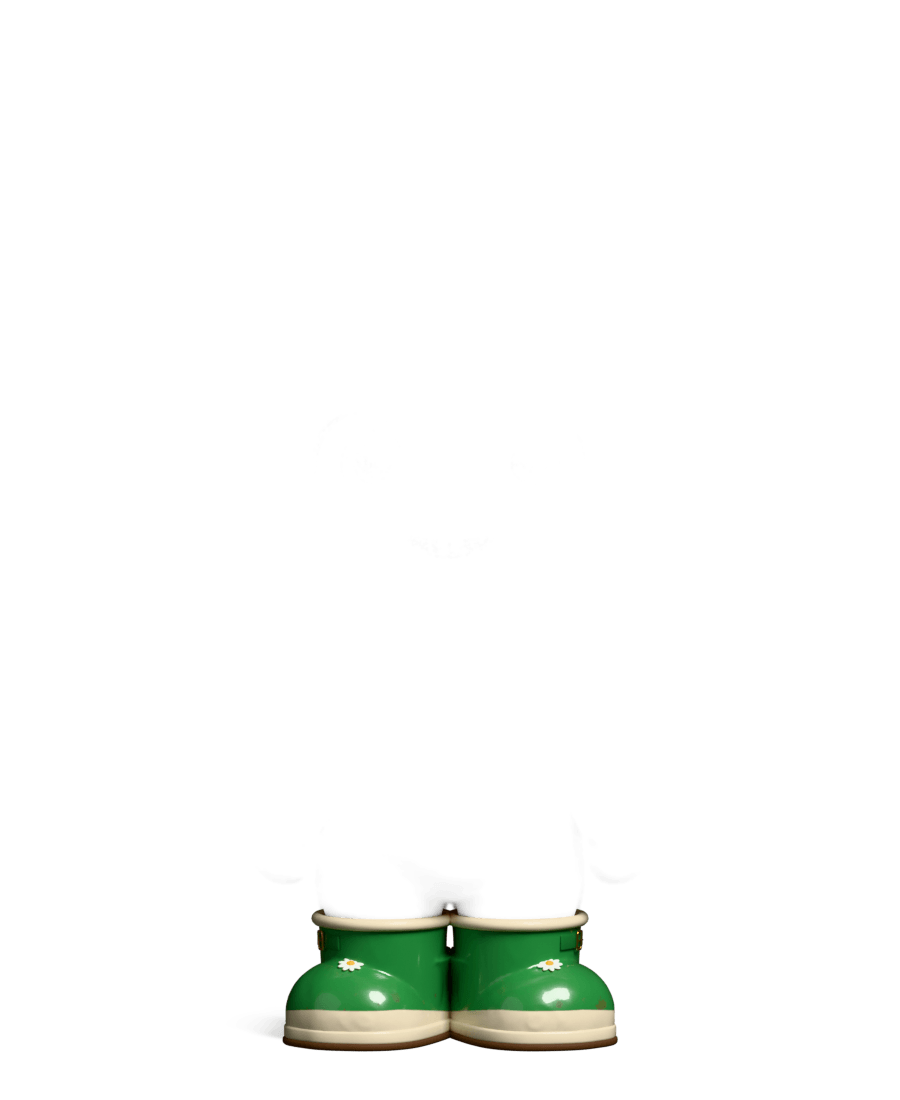
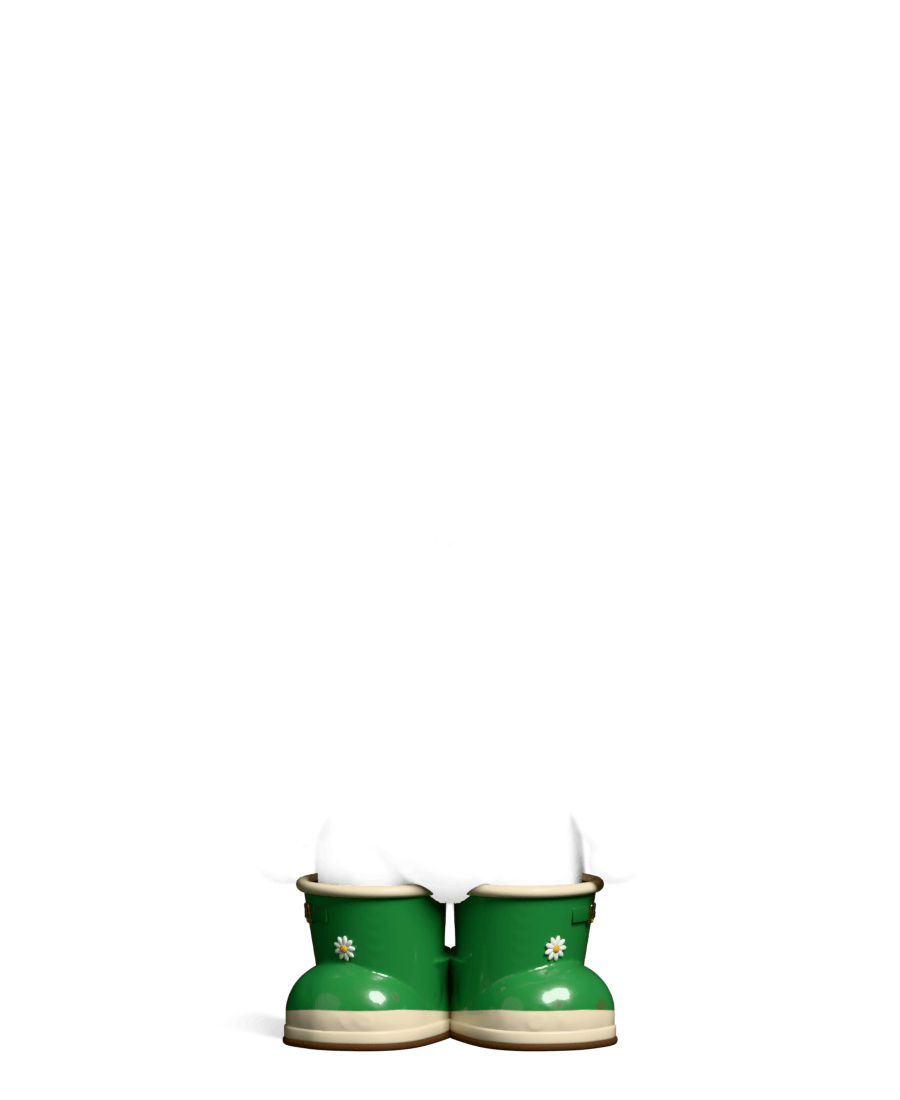
Rabi'yi Giydir: güneş gözlüğü, kepte sarkık kulak, çizme boyu, gözlük düzeltmesi
- Güneş gözlüğü (yüz yuvası): kalın siyah çerçeve, koyu degrade cam, yumuşak
  çapraz yansıma şeritleri, gümüş pimler.
- Kep takılınca alttaki Rabi sarkık kulaklı katmana geçer (Esya.taban,
  rabi-kep.png); kepin başlığı kafaya oturur, tahta kulak kökünün üstünde.
- Bahçıvan botu karnın altına kadar uzadı (çizme).
- Gözlük: cam gözü kapağıyla birlikte içine alır, saplar yanakta görünmez,
  çizik gibi okunan parıltı şeritleri kalktı; gözdeki hayalet gölge giderildi.

Changed region(s): [[0.3111, 0.7418, 0.6844, 0.8964]]

diff --git a/lib/giydir.ts b/lib/giydir.ts
@@ -13,7 +13,7 @@
 
 export type Yuva = 'kafa' | 'yuz' | 'ayak'
 
-export type EsyaId = 'kep' | 'gozluk' | 'bot'
+export type EsyaId = 'kep' | 'gozluk' | 'gunes' | 'bot'
 
 export type Esya = {
   id: EsyaId
@@ -25,6 +25,12 @@ export type Esya = {
   ikon: string
   /** Şimdilik hep 0 — arayüzde "Ücretsiz". */
   fiyat: number
+  /**
+   * Bu eşya giyiliyken çıplak Rabi yerine alta konan Rabi. Kep takılınca
+   * kulaklar yana sarkıyor: dik kulak kepin içinden çıkınca da, kulak hiç
+   * olmayınca da kötü duruyordu. Eşya katmanı da bu Rabi'ye göre çizildi.
+   */
+  taban?: string
 }
 
 /** Yuva → giyilen eşya. Her yuvada en çok bir eşya: aynı yere iki şapka olmaz. */
@@ -37,8 +43,17 @@ export const CIPLAK_RABI = '/giydir/rabi.png'
 
 /** Listedeki sıra: baştan ayağa, göz yukarıdan aşağı tarıyor. */
 export const ESYALAR: readonly Esya[] = [
-  { id: 'kep', ad: 'Mezuniyet Kepi', yuva: 'kafa', gorsel: '/giydir/kep.png', ikon: '/giydir/kep-ikon.png', fiyat: 0 },
+  {
+    id: 'kep',
+    ad: 'Mezuniyet Kepi',
+    yuva: 'kafa',
+    gorsel: '/giydir/kep.png',
+    ikon: '/giydir/kep-ikon.png',
+    fiyat: 0,
+    taban: '/giydir/rabi-kep.png',
+  },
   { id: 'gozluk', ad: 'Gözlük', yuva: 'yuz', gorsel: '/giydir/gozluk.png', ikon: '/giydir/gozluk-ikon.png', fiyat: 0 },
+  { id: 'gunes', ad: 'Güneş Gözlüğü', yuva: 'yuz', gorsel: '/giydir/gunes.png', ikon: '/giydir/gunes-ikon.png', fiyat: 0 },
   { id: 'bot', ad: 'Bahçıvan Botu', yuva: 'ayak', gorsel: '/giydir/bot.png', ikon: '/giydir/bot-ikon.png', fiyat: 0 },
 ]
 
@@ -87,15 +102,21 @@ export function dokun(giyilenler: Giyilenler, id: EsyaId): Giyilenler {
   return giyiliMi(giyilenler, id) ? cikar(giyilenler, esya.yuva) : giy(giyilenler, id)
 }
 
-/** Önizlemenin katman dosyaları, alttan üste: önce çıplak Rabi, sonra eşyalar. */
+/**
+ * Önizlemenin katman dosyaları, alttan üste: önce Rabi, sonra eşyalar.
+ *
+ * Alttaki Rabi giyilen bir eşyanın `taban`ı olabilir (kepte sarkık kulaklı
+ * Rabi); bugün yalnız kepte var, ikisi birden olursa üstteki yuvanınki geçer.
+ */
 export function katmanlar(giyilenler: Giyilenler): string[] {
-  const ustler = KATMAN_SIRASI.flatMap((yuva) => {
+  const giyili = KATMAN_SIRASI.flatMap((yuva) => {
     const id = giyilenler[yuva]
     const esya = id === undefined ? undefined : esyaBul(id)
     // Yuvası tutmayan kayıt (elle kurcalanmış) çizilmiyor: kep ayak katmanına düşmesin.
-    return esya && esya.yuva === yuva ? [esya.gorsel] : []
+    return esya && esya.yuva === yuva ? [esya] : []
   })
-  return [CIPLAK_RABI, ...ustler]
+  const taban = giyili.reduce<string>((t, e) => e.taban ?? t, CIPLAK_RABI)
+  return [taban, ...giyili.map((e) => e.gorsel)]
 }
 
 /**

diff --git a/lib/giydir.test.ts b/lib/giydir.test.ts
@@ -12,10 +12,11 @@ import {
 } from './giydir'
 
 describe('katalog', () => {
-  it('üç eşya, her biri kendi yuvasında ve ücretsiz', () => {
+  it('dört eşya, her biri kendi yuvasında ve ücretsiz', () => {
     expect(ESYALAR.map((e) => [e.id, e.yuva])).toEqual([
       ['kep', 'kafa'],
       ['gozluk', 'yuz'],
+      ['gunes', 'yuz'],
       ['bot', 'ayak'],
     ])
     expect(ESYALAR.every((e) => e.fiyat === 0)).toBe(true)
@@ -51,6 +52,12 @@ describe('giy / cikar / dokun', () => {
     expect(dokun(bir, 'gozluk')).toEqual({})
   })
 
+  it('güneş gözlüğü gözlüğün yerini alır (aynı yuva)', () => {
+    const g = giy(giy({}, 'gozluk'), 'gunes')
+    expect(g).toEqual({ yuz: 'gunes' })
+    expect(giyiliMi(g, 'gozluk')).toBe(false)
+  })
+
   it('bilinmeyen kimlik bir şey değiştirmez', () => {
     const g: Giyilenler = { kafa: 'kep' }
     expect(giy(g, 'pelerin' as never)).toBe(g)
@@ -66,14 +73,21 @@ describe('katmanlar', () => {
   it('sıra alttan üste: rabi → bot → gözlük → kep, giyme sırasından bağımsız', () => {
     const g = giy(giy(giy({}, 'kep'), 'gozluk'), 'bot')
     expect(katmanlar(g)).toEqual([
-      '/giydir/rabi.png',
+      '/giydir/rabi-kep.png',
       '/giydir/bot.png',
       '/giydir/gozluk.png',
       '/giydir/kep.png',
     ])
   })
 
+  it('kep takılıyken alttaki Rabi sarkık kulaklı olan, çıkınca dik kulaklıya döner', () => {
+    const g = giy(giy({}, 'kep'), 'gunes')
+    expect(katmanlar(g)).toEqual(['/giydir/rabi-kep.png', '/giydir/gunes.png', '/giydir/kep.png'])
+    expect(katmanlar(cikar(g, 'kafa'))).toEqual([CIPLAK_RABI, '/giydir/gunes.png'])
+  })
+
   it('yanlış yuvadaki eşyayı çizmez', () => {
+    // Yanlış yuvadaki kepin tabanı da gelmez: kep yoksa kulaklar dik.
     expect(katmanlar({ ayak: 'kep' } as Giyilenler)).toEqual([CIPLAK_RABI])
   })
 })

diff --git a/components/ekranlar/rabi-giydir.tsx b/components/ekranlar/rabi-giydir.tsx
@@ -55,7 +55,9 @@ export function RabiGiydirEkrani({
           )}
         >
           {katmanListesi.map((src, sira) => (
-            <Katman key={src} src={src} ilk={sira === 0} />
+            // Alttaki Rabi'nin anahtarı sabit: kep takılınca yalnız `src`i değişir,
+            // öğe yeniden kurulmaz; yeni görsel gelene dek eskisi durur, boşluk görünmez.
+            <Katman key={sira === 0 ? 'taban' : src} src={src} ilk={sira === 0} />
           ))}
         </div>
       </Kart>
@@ -86,7 +88,7 @@ export function RabiGiydirEkrani({
 function useGorselleriOnYukle(): boolean {
   const [hazir, setHazir] = useState(false)
   useEffect(() => {
-    const dosyalar = [CIPLAK_RABI, ...ESYALAR.map((e) => e.gorsel)]
+    const dosyalar = [CIPLAK_RABI, ...ESYALAR.flatMap((e) => (e.taban ? [e.gorsel, e.taban] : [e.gorsel]))]
     let kalan = dosyalar.length
     let iptal = false
     const bitti = () => {
@@ -115,8 +117,9 @@ function useGorselleriOnYukle(): boolean {
  * yolu olduğu için yalnız yeni giyilen katman oynar. Çıplak Rabi oynamaz.
  */
 function Katman({ src, ilk }: { src: string; ilk: boolean }) {
-  const [yok, setYok] = useState(false)
-  if (yok) return null
+  // Hangi dosyanın yüklenemediği tutulur: alttaki Rabi aynı öğede dosya değiştiriyor.
+  const [yokDosya, setYokDosya] = useState<string | null>(null)
+  if (yokDosya === src) return null
   return (
     // eslint-disable-next-line @next/next/no-img-element
     <img
@@ -126,7 +129,7 @@ function Katman({ src, ilk }: { src: string; ilk: boolean }) {
       draggable={false}
       loading="eager"
       decoding="async"
-      onError={() => setYok(true)}
+      onError={() => setYokDosya(src)}
       className={cn('pointer-events-none absolute inset-0 size-full object-contain', !ilk && 'esya-solma')}
     />
   )

diff --git a/components/ekranlar/ana-sayfa.tsx b/components/ekranlar/ana-sayfa.tsx
@@ -559,7 +559,7 @@ function GiydirSatiri({ onAc }: { onAc: () => void }) {
         </span>
         <span className="min-w-0 flex-1">
           <span className="block font-display text-[15px] leading-tight font-extrabold">Rabi&apos;yi Giydir</span>
-          <span className="mt-0.5 block text-xs font-semibold text-muted-foreground">Kep, gözlük, bot</span>
+          <span className="mt-0.5 block text-xs font-semibold text-muted-foreground">Kep, gözlükler, bot</span>
         </span>
         <ChevronRight size={20} className="shrink-0 text-muted-foreground" aria-hidden />
       </button>

diff --git a/docs/kurallar/maskot-ve-ikon.md b/docs/kurallar/maskot-ve-ikon.md
@@ -94,8 +94,9 @@ Rabi proje kurallarının bir parçası — dizin ve genel kurallar: [AGENTS.md]
 
 - Ekran `components/ekranlar/rabi-giydir.tsx`, kurallar `lib/giydir.ts`, kayıt
   `rabi-giydir`. Kaynak model Blender'da (`rabi8_iskelet.blend` + eşyalar,
-  `rabi_giydir2.blend`, kurulum ve render betikleri `giydir-betikleri/`; depoda
-  değil, `Desktop\rabi_tavsan_model`).
+  `rabi_giydir3.blend`; kurulum `kur3.py`, katmanlar `katman3.py`, kulak pozu
+  `sarkik.py`, hepsi `giydir-betikleri/` içinde; depoda değil,
+  `Desktop\rabi_tavsan_model`).
 - Görseller `public/giydir/`: `rabi.png` + eşya başına tam tuval katman (900×1100,
   **aynı kamera**) ve 256'lık `-ikon.png`. Eşya katmanı Rabi "holdout" iken render
   alınır: Rabi görünmez ama önünde kaldığı yerde eşyayı keser, böylece katmanlar
@@ -106,8 +107,17 @@ Rabi proje kurallarının bir parçası — dizin ve genel kurallar: [AGENTS.md]
   katmanının altına yarı saydam siyah olarak gömülür; gölgesiz eşya yapıştırılmış
   gibi duruyordu. Yer gölgesi ayağın altında elipse kırpılır: anahtar ışık gölgeyi
   sola uzun bir kama gibi atıyor, kartın köşesini karartıyordu.
+- **Kepte kulaklar yana sarkık** (kullanıcı istedi, 2026-10-31): dik kulak kepin
+  içinden çıkınca da, kulak hiç olmayınca da kötü duruyordu. Kep giyiliyken alttaki
+  Rabi `rabi-kep.png` (`Esya.taban`); kep katmanı da o pozla alınır. Tahta sarkık
+  kulak kökünün üstüne oturur, yoksa kök tahtayı delip beyaz çizik bırakıyor.
+- **Gözlük camı gözü kapağıyla birlikte içine alır:** küçük camda kapak çizgisi
+  çerçevenin dışına taşıp çift çizgi gibi duruyordu. Saplar menteşeden hemen başa
+  dalar (yanakta çubuk gibi görünüyordu), camda parıltı şeridi yok (çizik gibi
+  okunuyordu). Konum ve açı yüzey ölçülerek bulunur (`gozluk_yerlesimi`).
 - Gözlük camı yalnız kenarda yansır: beyaz dünyayı yansıtan cam gözlerin üstünde
-  süt gibi bir tabaka bırakıyordu.
+  süt gibi bir tabaka bırakıyordu. Gözün koyu yerinde gömülü gölge sönümlenir:
+  oran orada gürültüye boğulup camın altında hayalet leke bırakıyordu.
 - Paletli PNG (maskot pozlarıyla aynı). Yeni eşya = Blender'da kemiğe bağlı nesne +
   aynı kamerayla katman + `ESYALAR`a satır; aynı yuvaya ikinci eşya ötekini çıkarır.
 - Eşyalar ücretsiz, para birimi yok (kullanıcı denemek için istedi, 2026-10-30).
